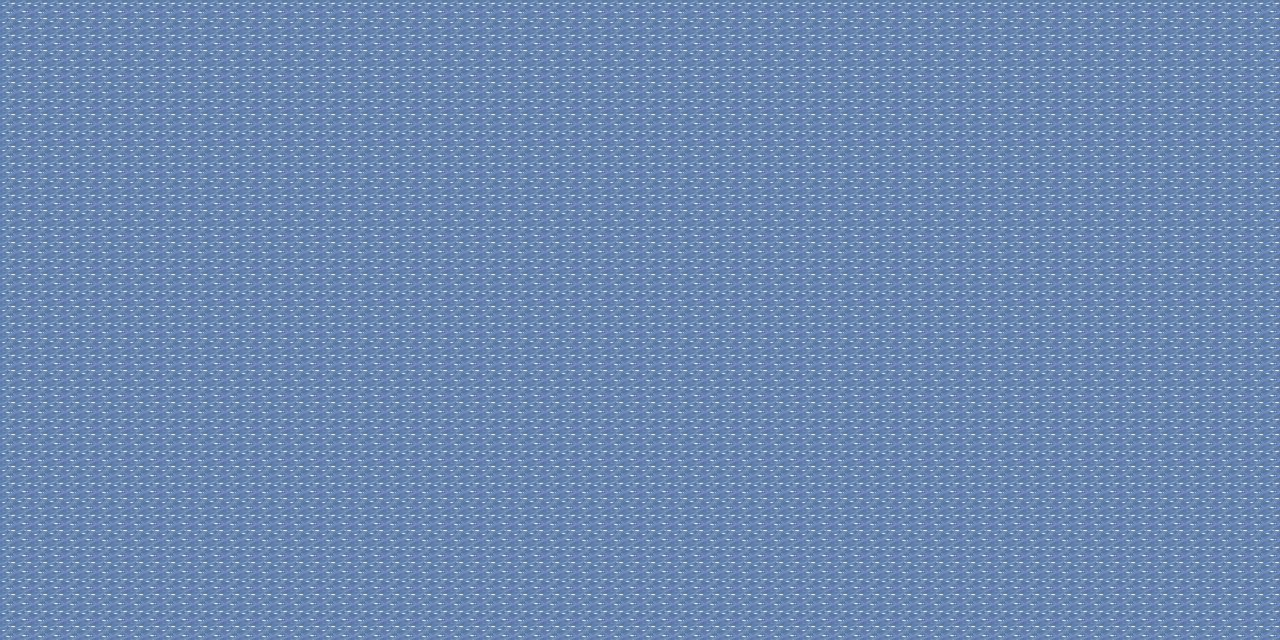
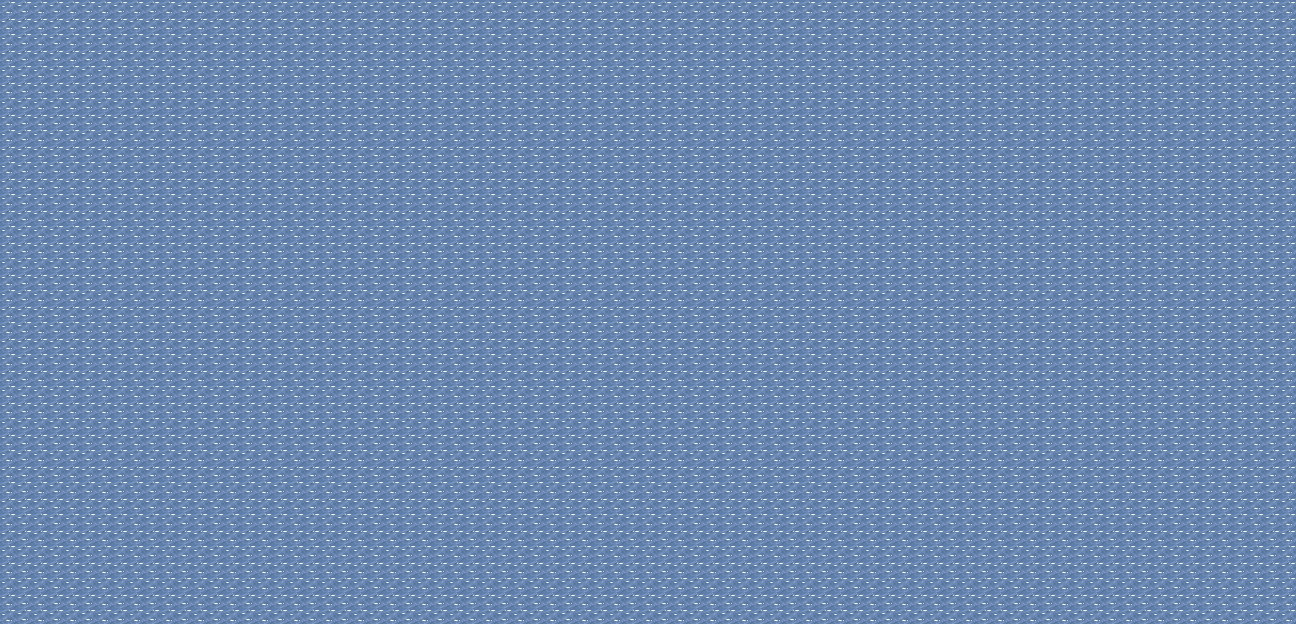
feat: animated sea

Changed region(s): [[0.0, 0.0, 1.0, 1.0]]

diff --git a/gameScreen.js b/gameScreen.js
@@ -1,10 +1,14 @@
+let imgGameBackground;
+
 let imgBackButton, imgCameraButton, imgInventory, imgConstruction, imgSelected, imgArrow;
 
 let isPickaxeSelected, isGrassSelected, isHoeSelected, isSeedSelected, isAxSelected;
 
 let pictureTime = 0;
+let backgroundTime = 0;
 
-function gameScreen() {;
+function gameScreen() {
+    drawAnimatedBackground();
     drawTilesMap();
     drawTreesMap();
     drawTreeGrowth();
@@ -20,6 +24,13 @@ function gameScreen() {;
     if (isAxSelected == true) image(imgSelected, 704.34, 586.67);
 
     takeAPicture();
+}
+
+function drawAnimatedBackground() {
+    backgroundTime++;
+    if (backgroundTime < 60) image(imgGameBackground, 0, 0);
+    if (backgroundTime > 60) image(imgGameBackground, -16, 16);
+    if (backgroundTime >= 120) backgroundTime = 0;
 }
 
 function drawTreeGrowth() {

diff --git a/drawMap.js b/drawMap.js
@@ -1,5 +1,3 @@
-let gameBackground;
-
 let imgGrass, imgGrassDot, imgGrassMiddle, imgDirt, imgDirtDot, imgDirtMiddle;
 
 let grassOneD = [];
@@ -43,8 +41,6 @@ function drawTreesMap() {
 }
 
 function drawTilesMap() {
-    image(imgGameBackground, 0, 0);
-
     let hasDirtOnTop;
     let hasDirtOnBottom;
     let hasDirtOnLeft;
